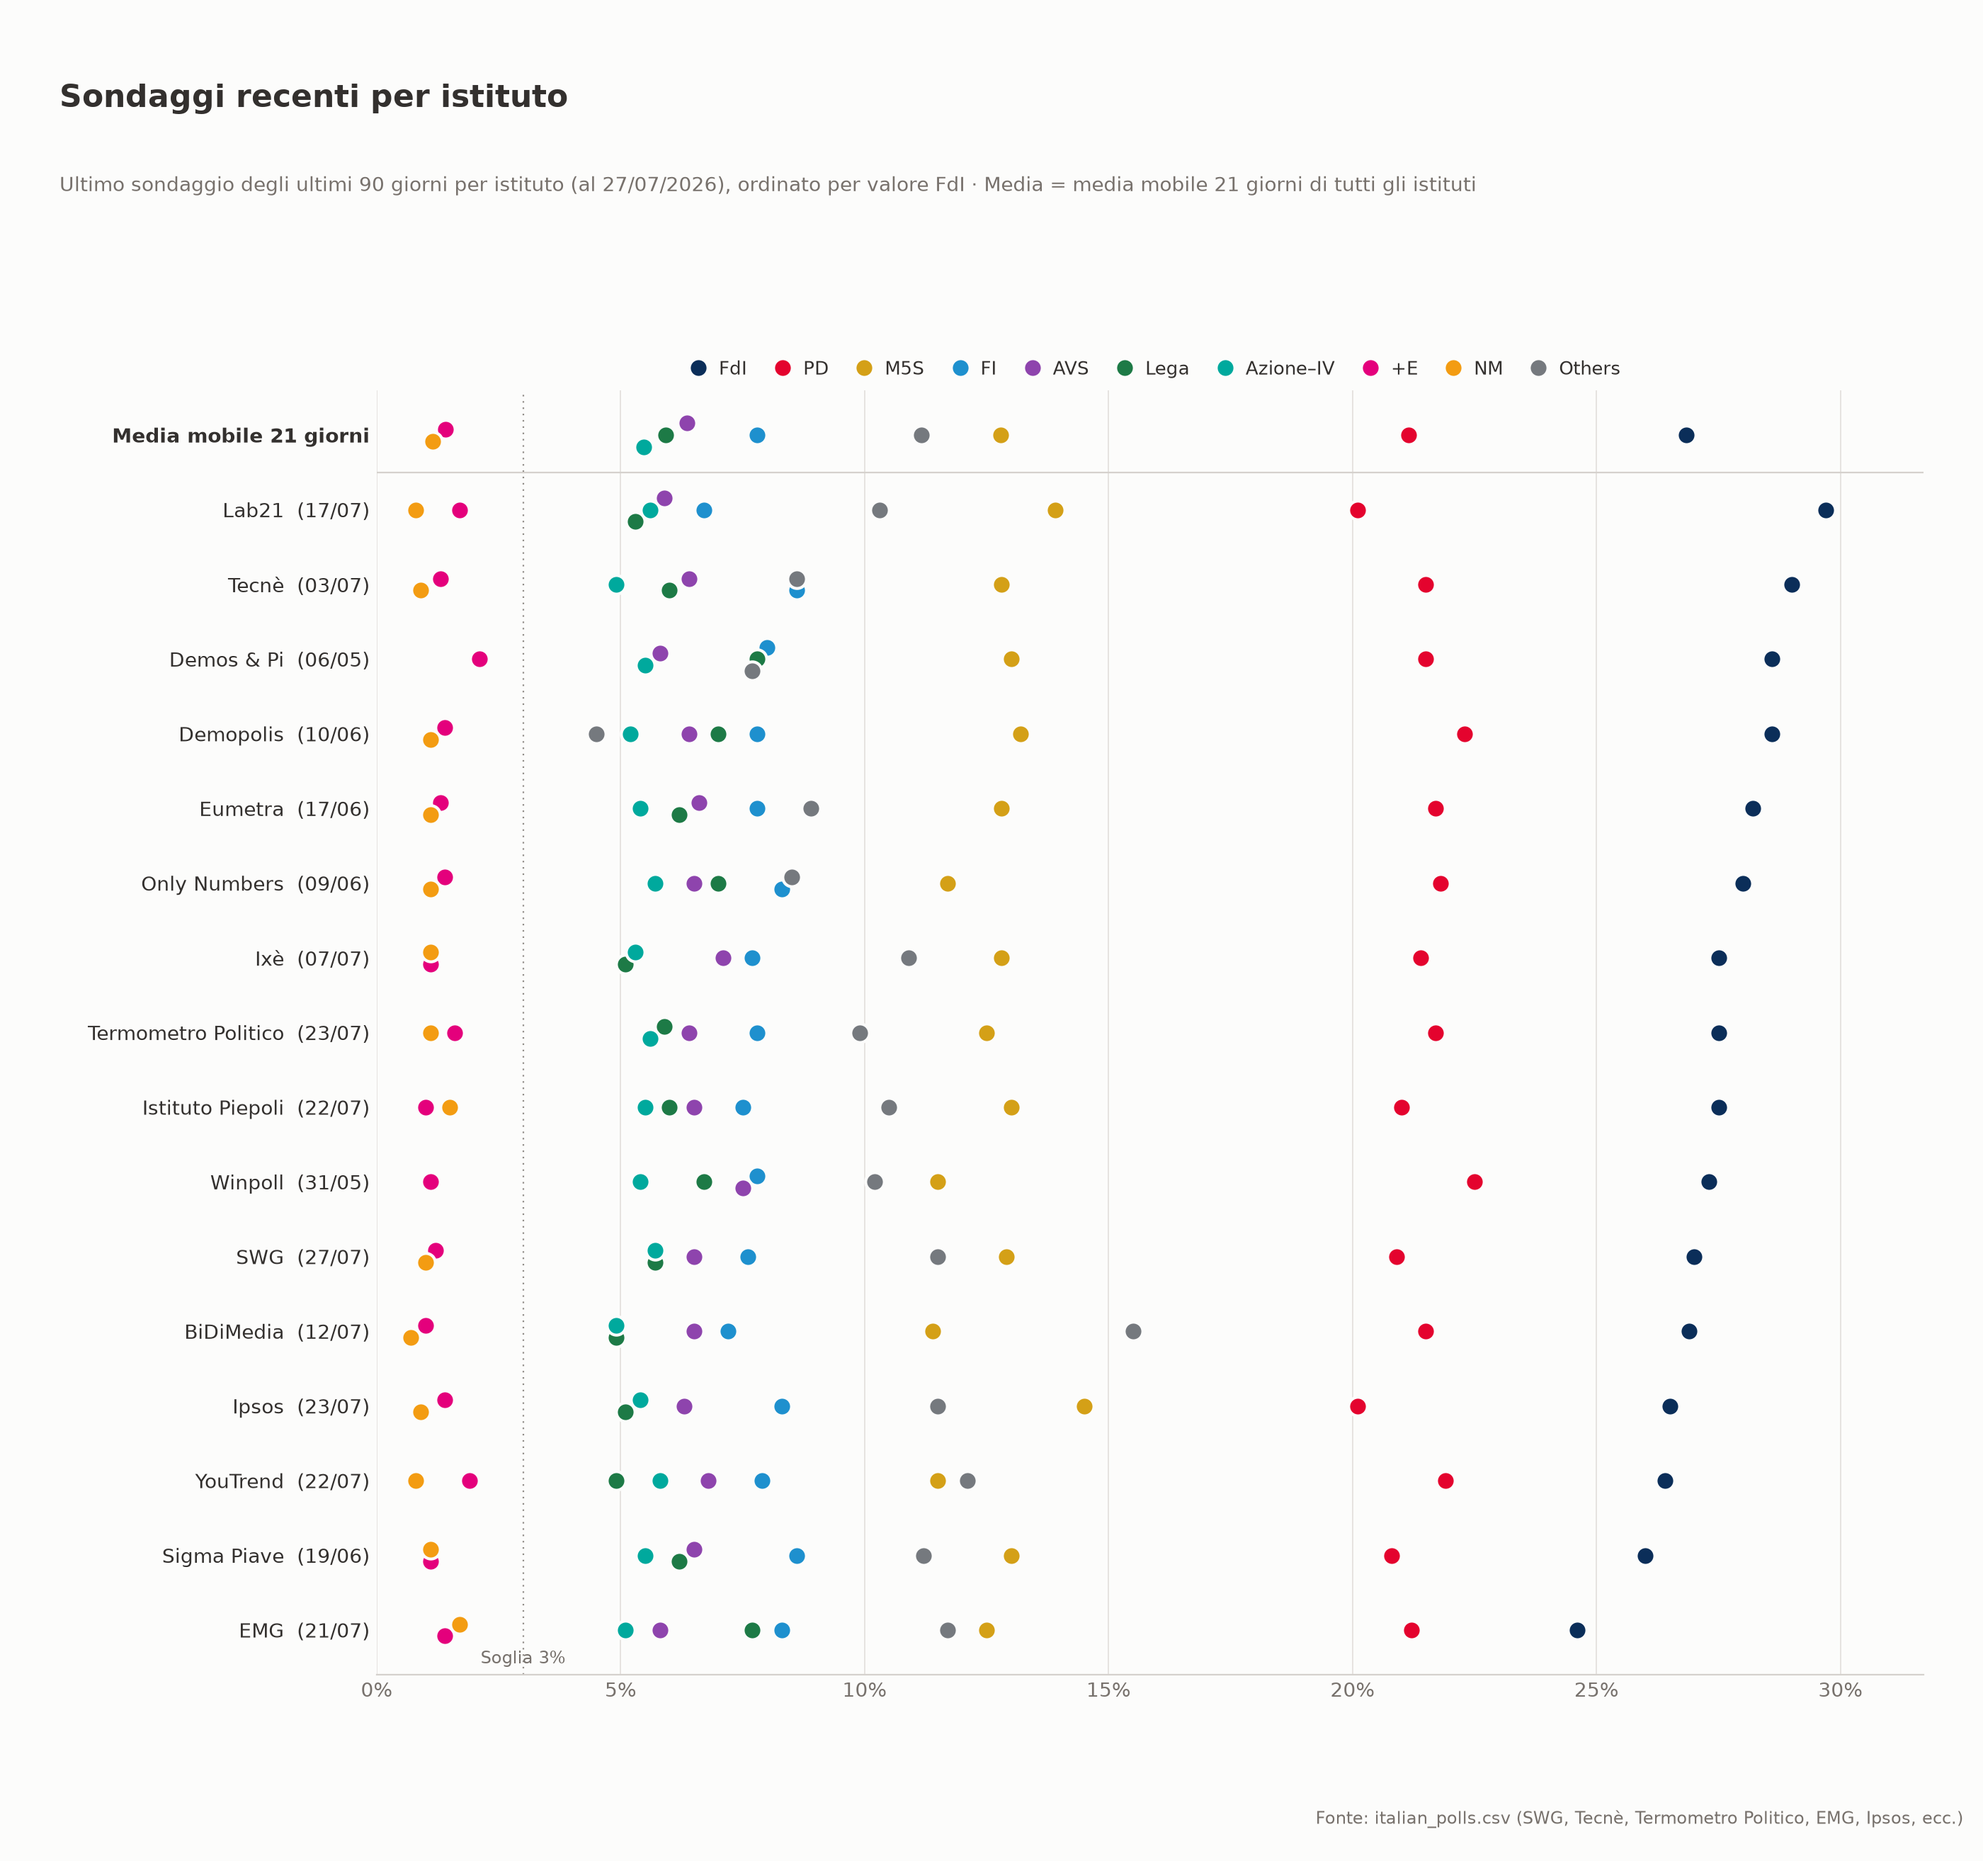
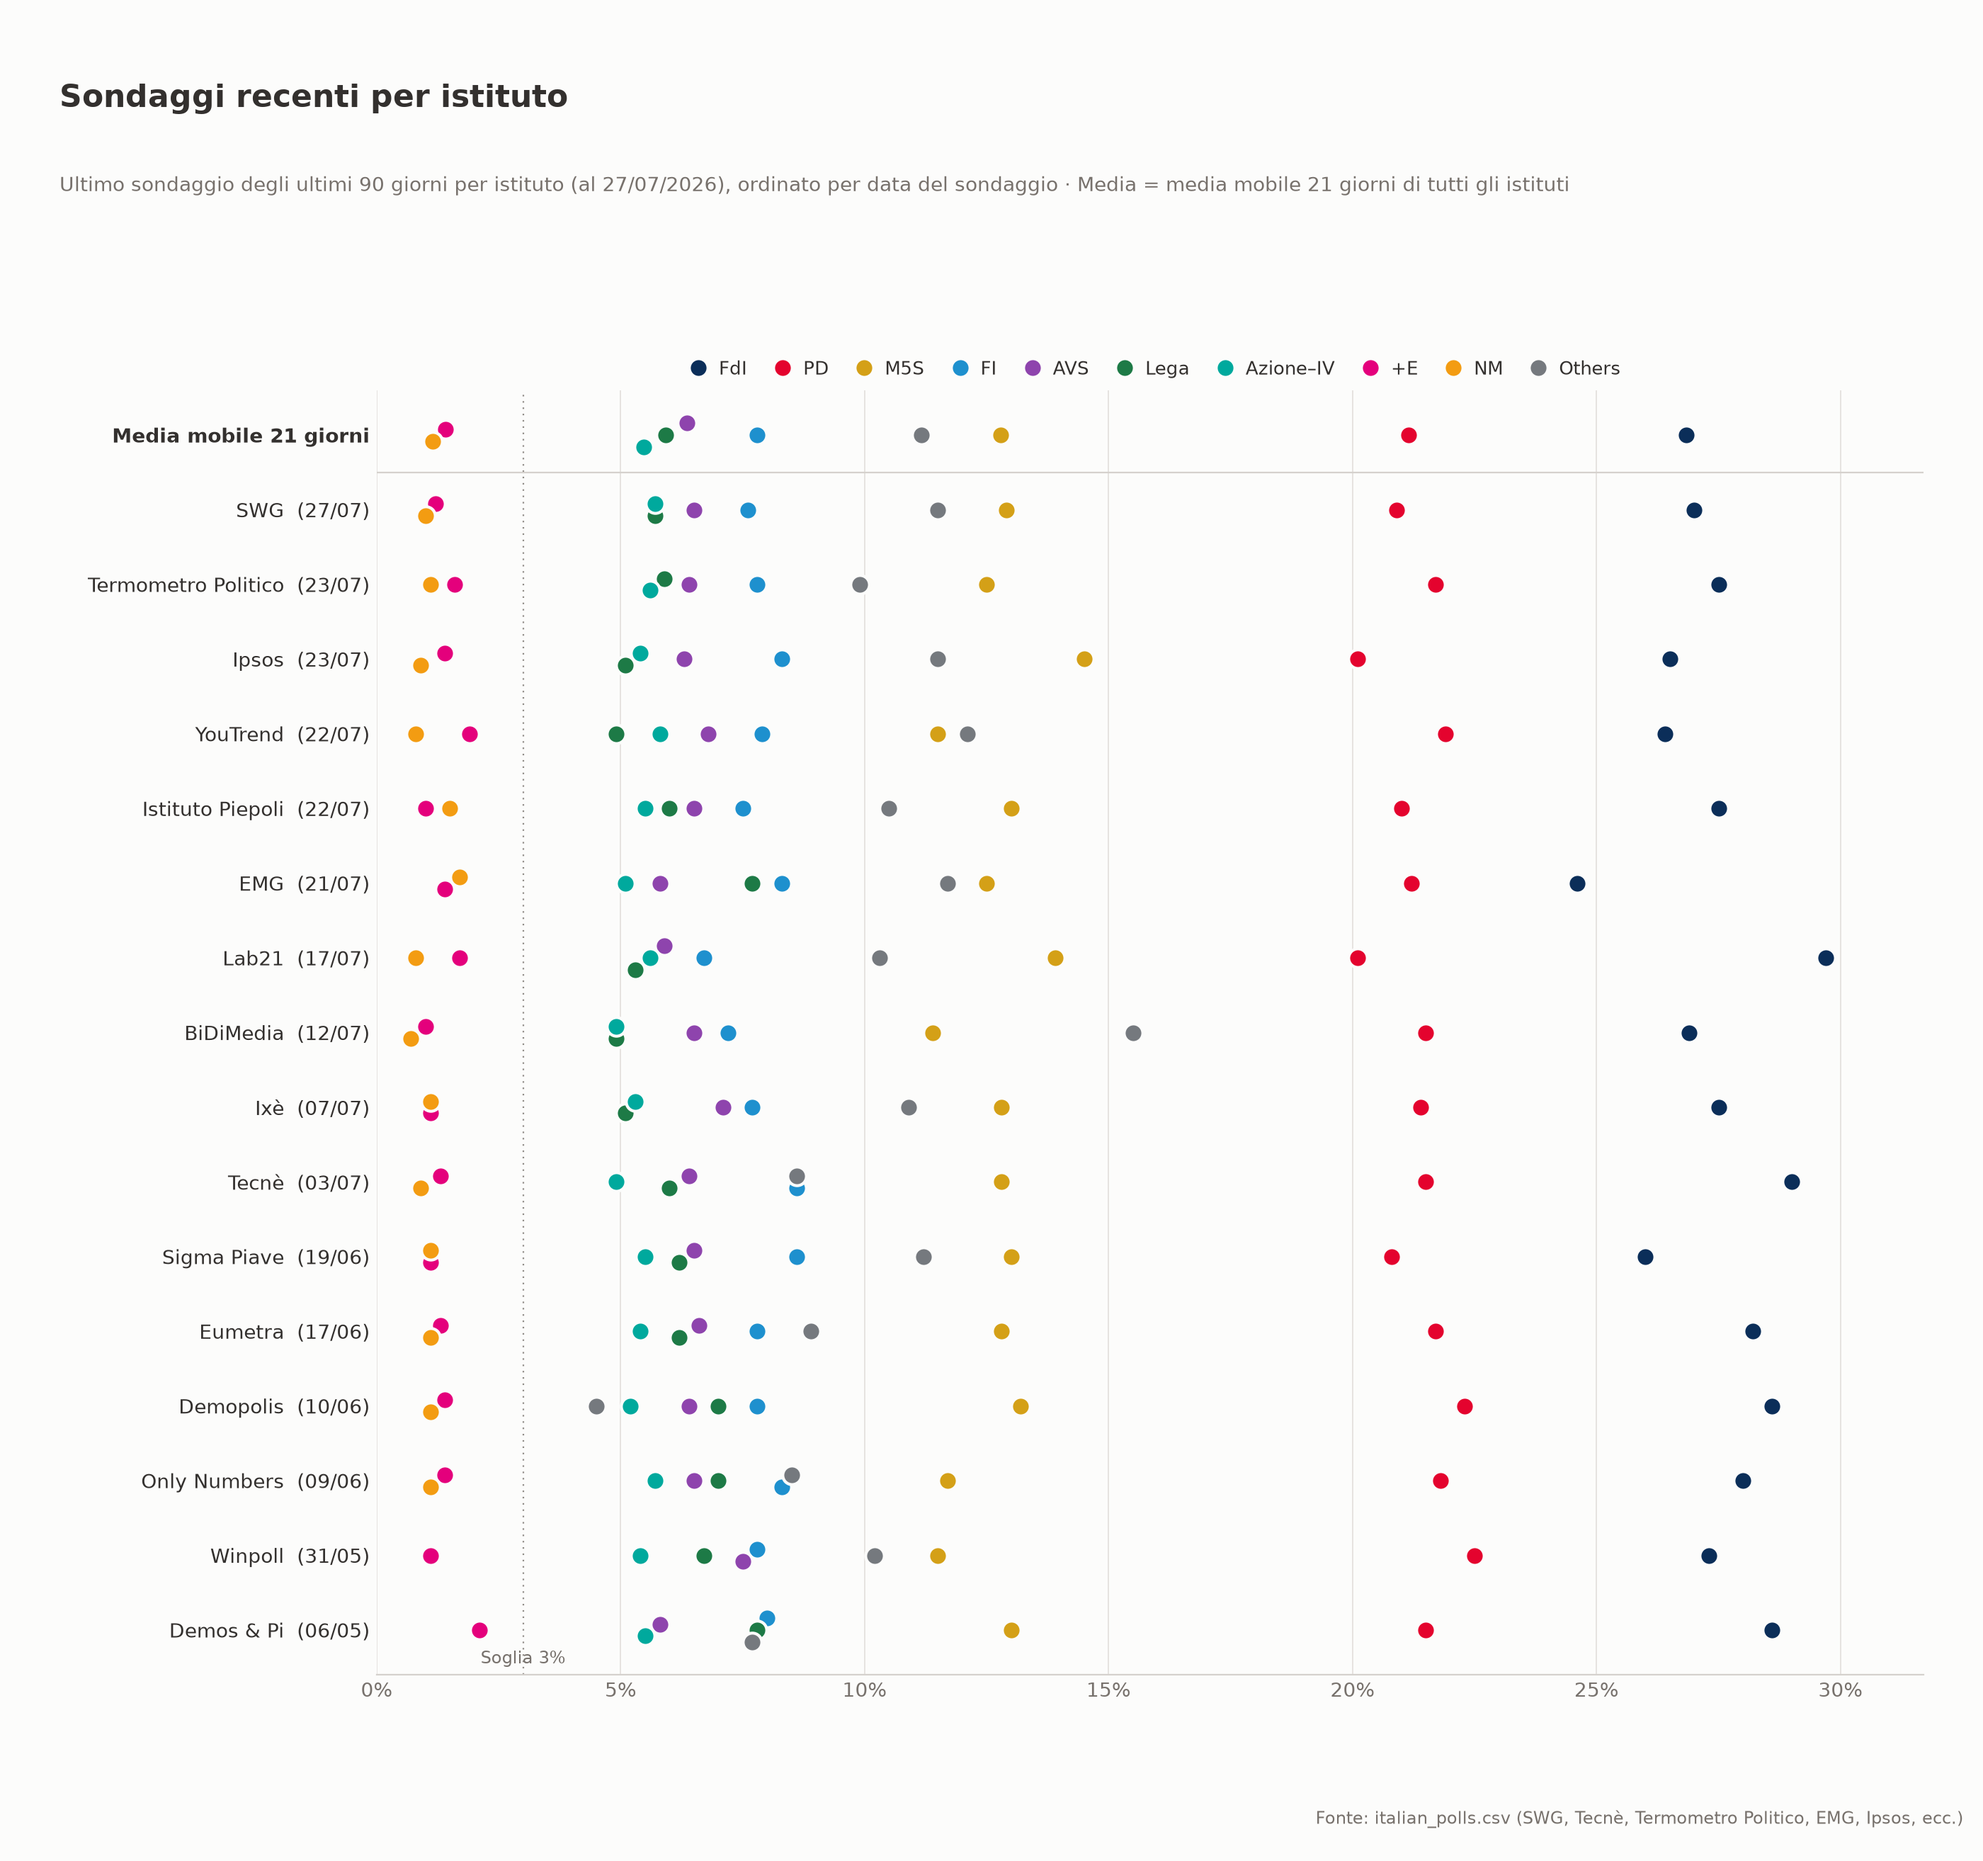
Order the institute chart by poll date
The "Sondaggi recenti per istituto" rows were sorted by FdI share; sort
them by the date of each institute's latest poll instead, newest at the
top. Subtitle and README updated to match.

diff --git a/main.py b/main.py
@@ -97,7 +97,7 @@ def dodge(values: list[float], gap: float = 0.5, step: float = 0.16) -> list[flo
 def plot_institutes(df: pd.DataFrame, out_path: str) -> None:
     cutoff = df.index.max() - pd.Timedelta(days=90)
     latest = df[df.index >= cutoff].reset_index().groupby("institute").last()
-    latest = latest.sort_values("FdI")
+    latest = latest.sort_values("date")
 
     avg = latest_averages(df)
     rows = [(f"{inst}  ({row['date']:%d/%m})", row) for inst, row in latest.iterrows()]
@@ -155,7 +155,7 @@ def plot_institutes(df: pd.DataFrame, out_path: str) -> None:
     fig.text(
         0.03, 0.905,
         f"Ultimo sondaggio degli ultimi 90 giorni per istituto (al {df.index.max():%d/%m/%Y}), "
-        "ordinato per valore FdI · Media = media mobile 21 giorni di tutti gli istituti",
+        "ordinato per data del sondaggio · Media = media mobile 21 giorni di tutti gli istituti",
         fontsize=10, color=MUTED, va="top",
     )
     fig.text(

diff --git a/README.md b/README.md
@@ -12,7 +12,7 @@ A second chart zooms in on just the last 12 months:
 ![Polls from the last 12 months](italian_polls_recent.png)
 
 A third chart compares institutes ("house effects"): each row is an
-institute's most recent poll from the past 90 days, sorted by FdI share, with
+institute's most recent poll from the past 90 days, sorted by poll date, with
 the all-institute rolling average on top for reference:
 
 ![Poll results by institute](italian_polls_institutes.png)
